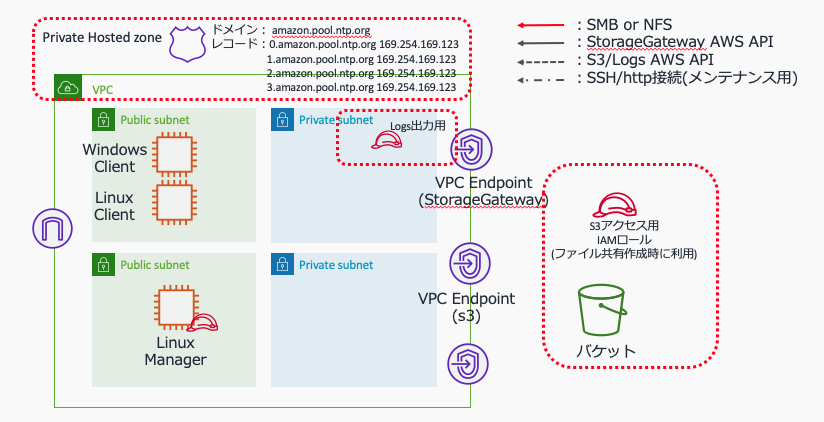
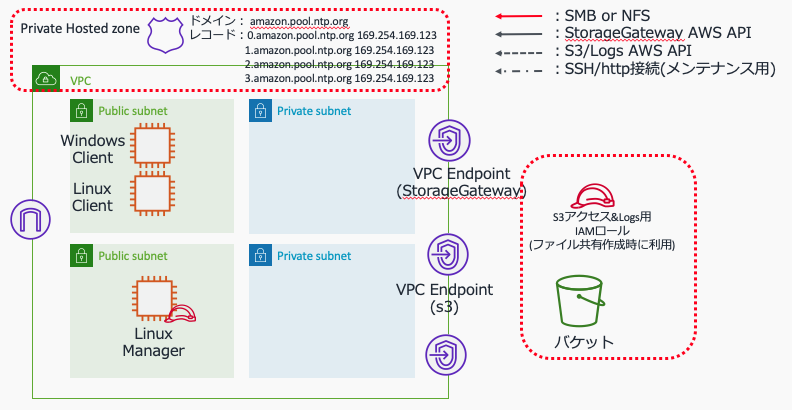
delete log vpcendpoint

diff --git a/README.md b/README.md
@@ -200,15 +200,6 @@ aws --profile ${PROFILE} \
         --subnet-id ${PrivateSubnet1Id} ${PrivateSubnet2Id} \
         --security-group-id ${VPCENDPOINT_STORAGEGW_SG_ID} ;
 
-#StorageGatewayのCloudWatch Log出力用
-aws --profile ${PROFILE} \
-    ec2 create-vpc-endpoint \
-        --vpc-id ${VPCID} \
-        --vpc-endpoint-type Interface \
-        --service-name com.amazonaws.${REGION}.logs \
-        --subnet-id ${PrivateSubnet1Id} ${PrivateSubnet2Id} \
-        --security-group-id ${VPCENDPOINT_STORAGEGW_SG_ID} ;
-
 #SSM用PCEndpoint作成
 aws --profile ${PROFILE} \
     ec2 create-vpc-endpoint \
@@ -651,7 +642,7 @@ aws --profile ${PROFILE} \
         --assume-role-policy-document "${POLICY}" \
         --max-session-duration 43200
 
-#In-line Policyの追加
+#S3バケットアクセス用 In-line Policyの追加
 POLICY='{
   "Version": "2012-10-17",
   "Statement": [
@@ -687,7 +678,20 @@ POLICY='{
       "Resource": [
         "arn:aws:s3:::'"${BUCKET_NAME}"'/*"
       ]
-    },
+    }
+  ]
+}'
+#インラインポリシーの設定
+aws --profile ${PROFILE} \
+    iam put-role-policy \
+        --role-name "StorageGateway-S3AccessRole" \
+        --policy-name "AccessS3buckets" \
+        --policy-document "${POLICY}";
+
+#CloudWatch Logs用 In-line Policyの追加
+POLICY='{
+  "Version": "2012-10-17",
+  "Statement": [
     {
       "Sid": "AllowLogs",
       "Effect": "Allow",
@@ -705,7 +709,7 @@ POLICY='{
 aws --profile ${PROFILE} \
     iam put-role-policy \
         --role-name "StorageGateway-S3AccessRole" \
-        --policy-name "AccessS3buckets" \
+        --policy-name "PutCLoudWatchLogs" \
         --policy-document "${POLICY}";
 
 ```
